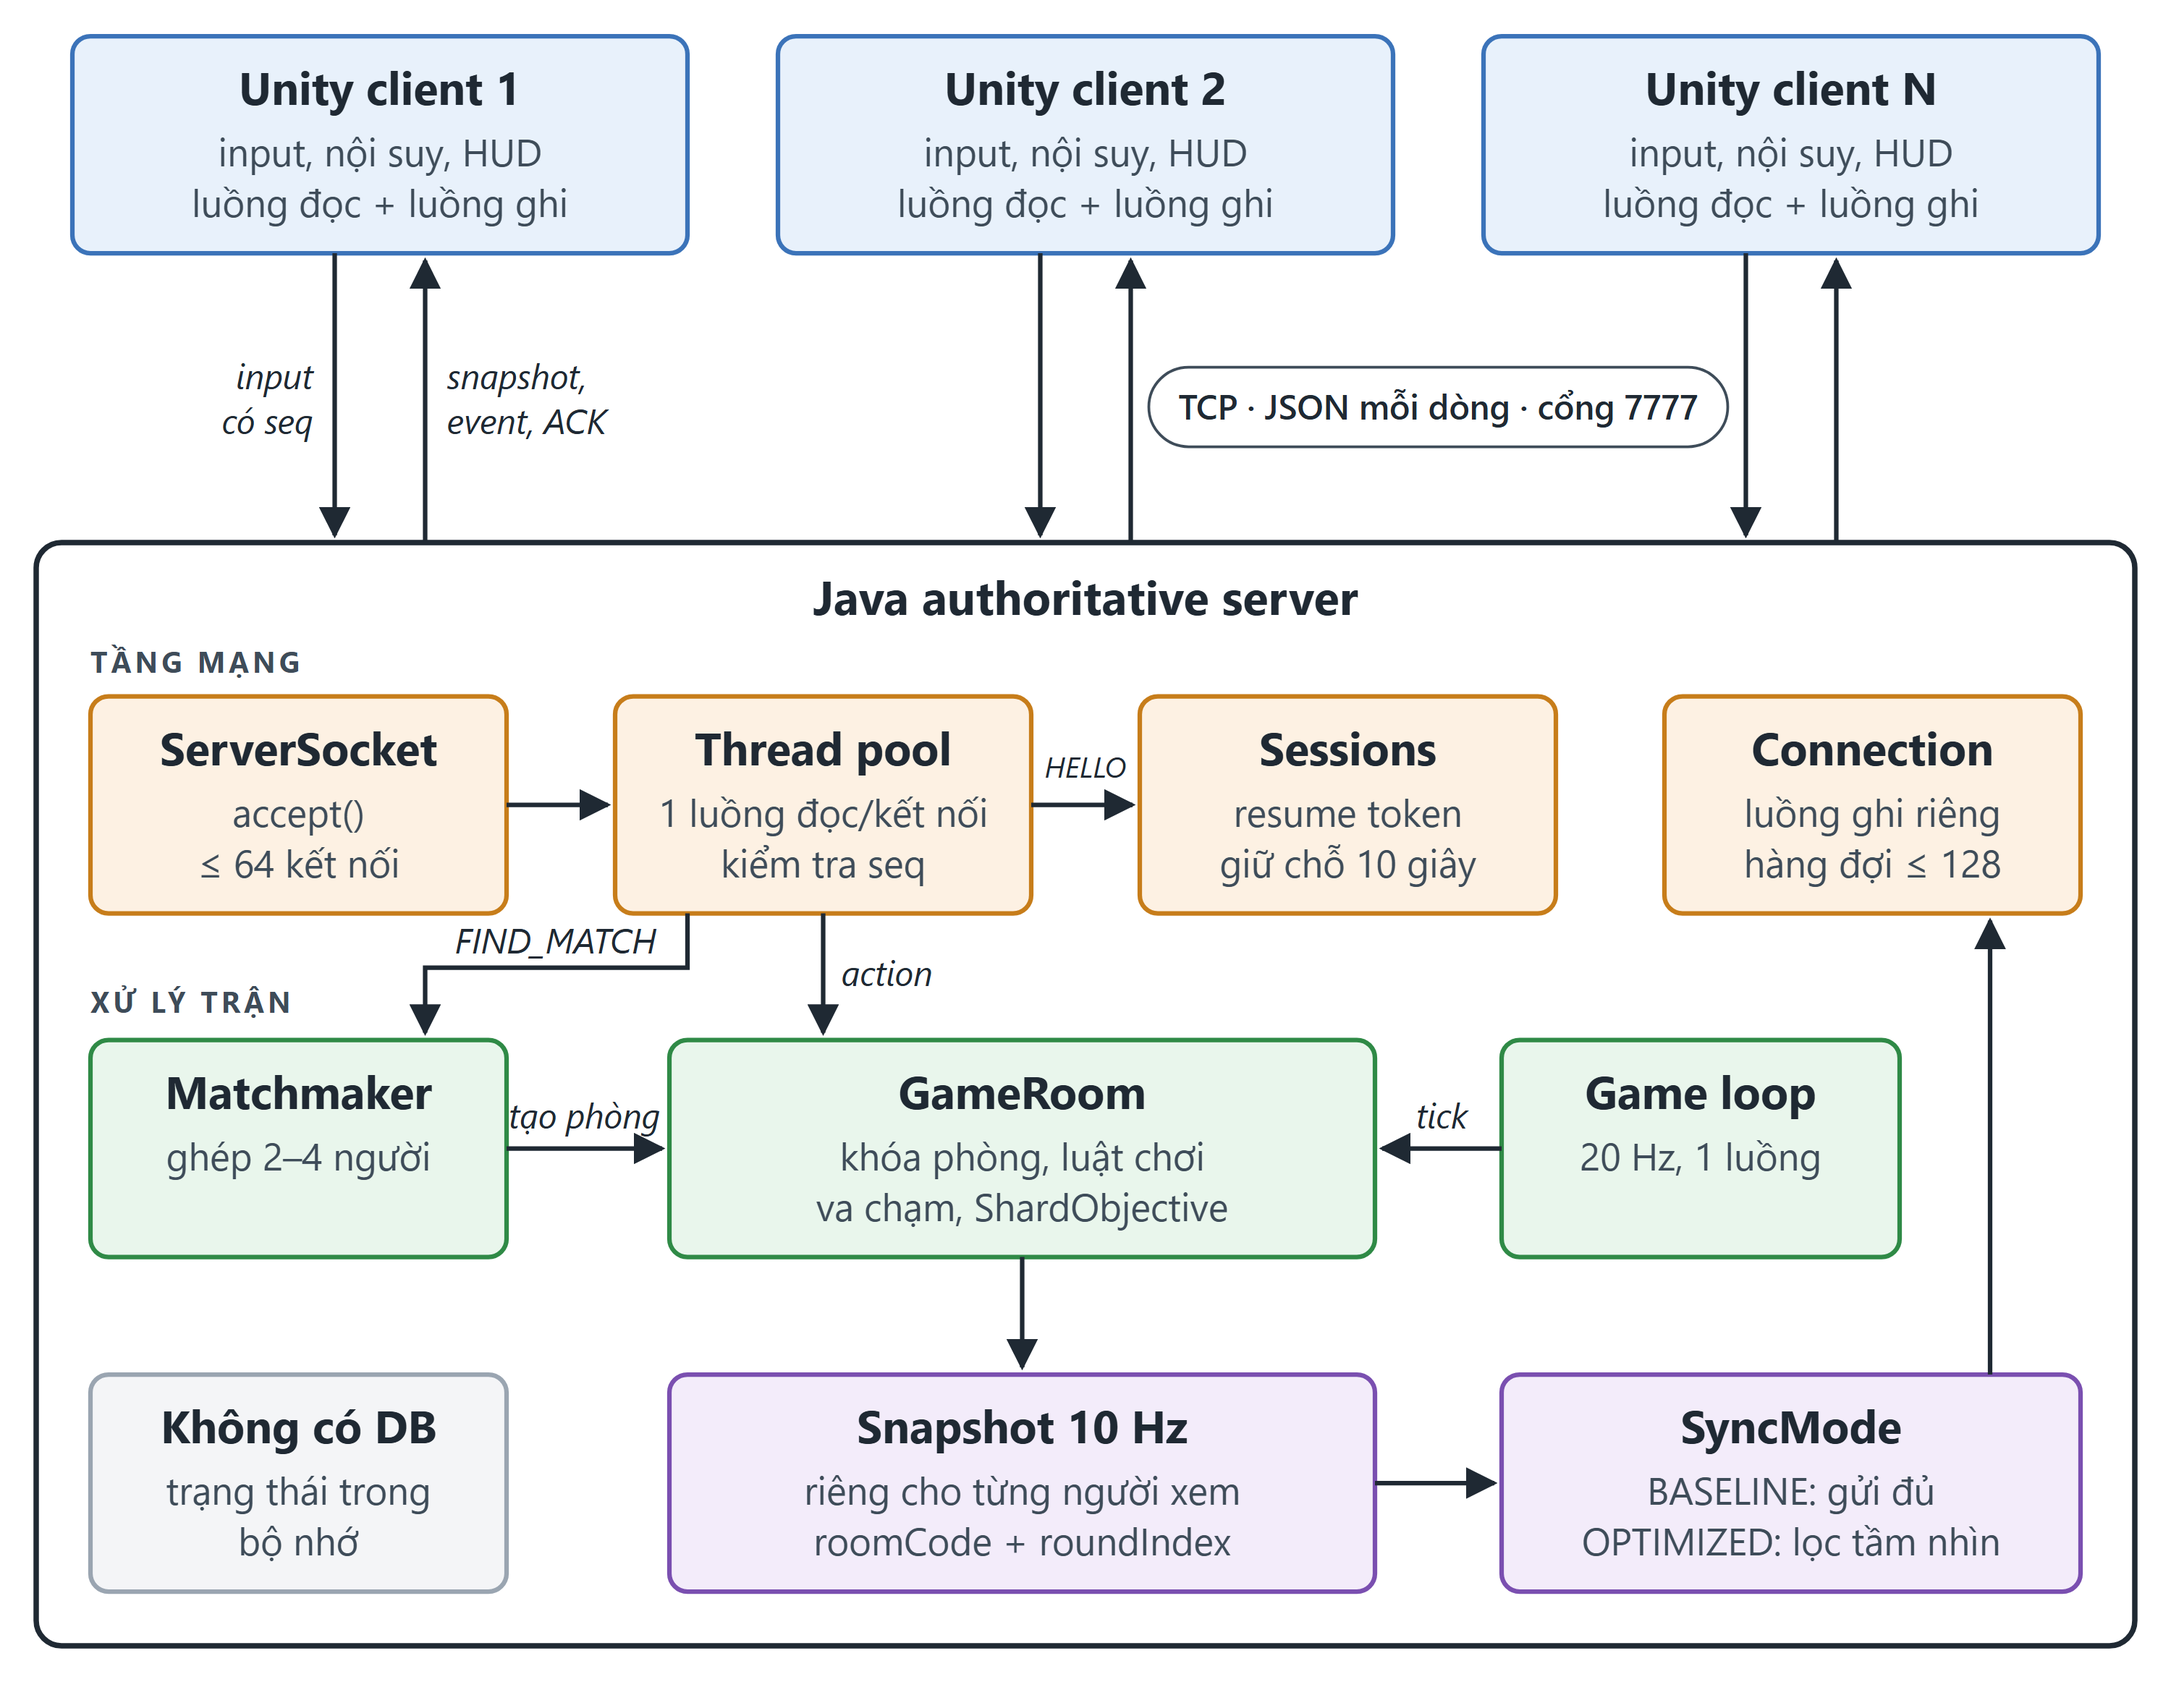
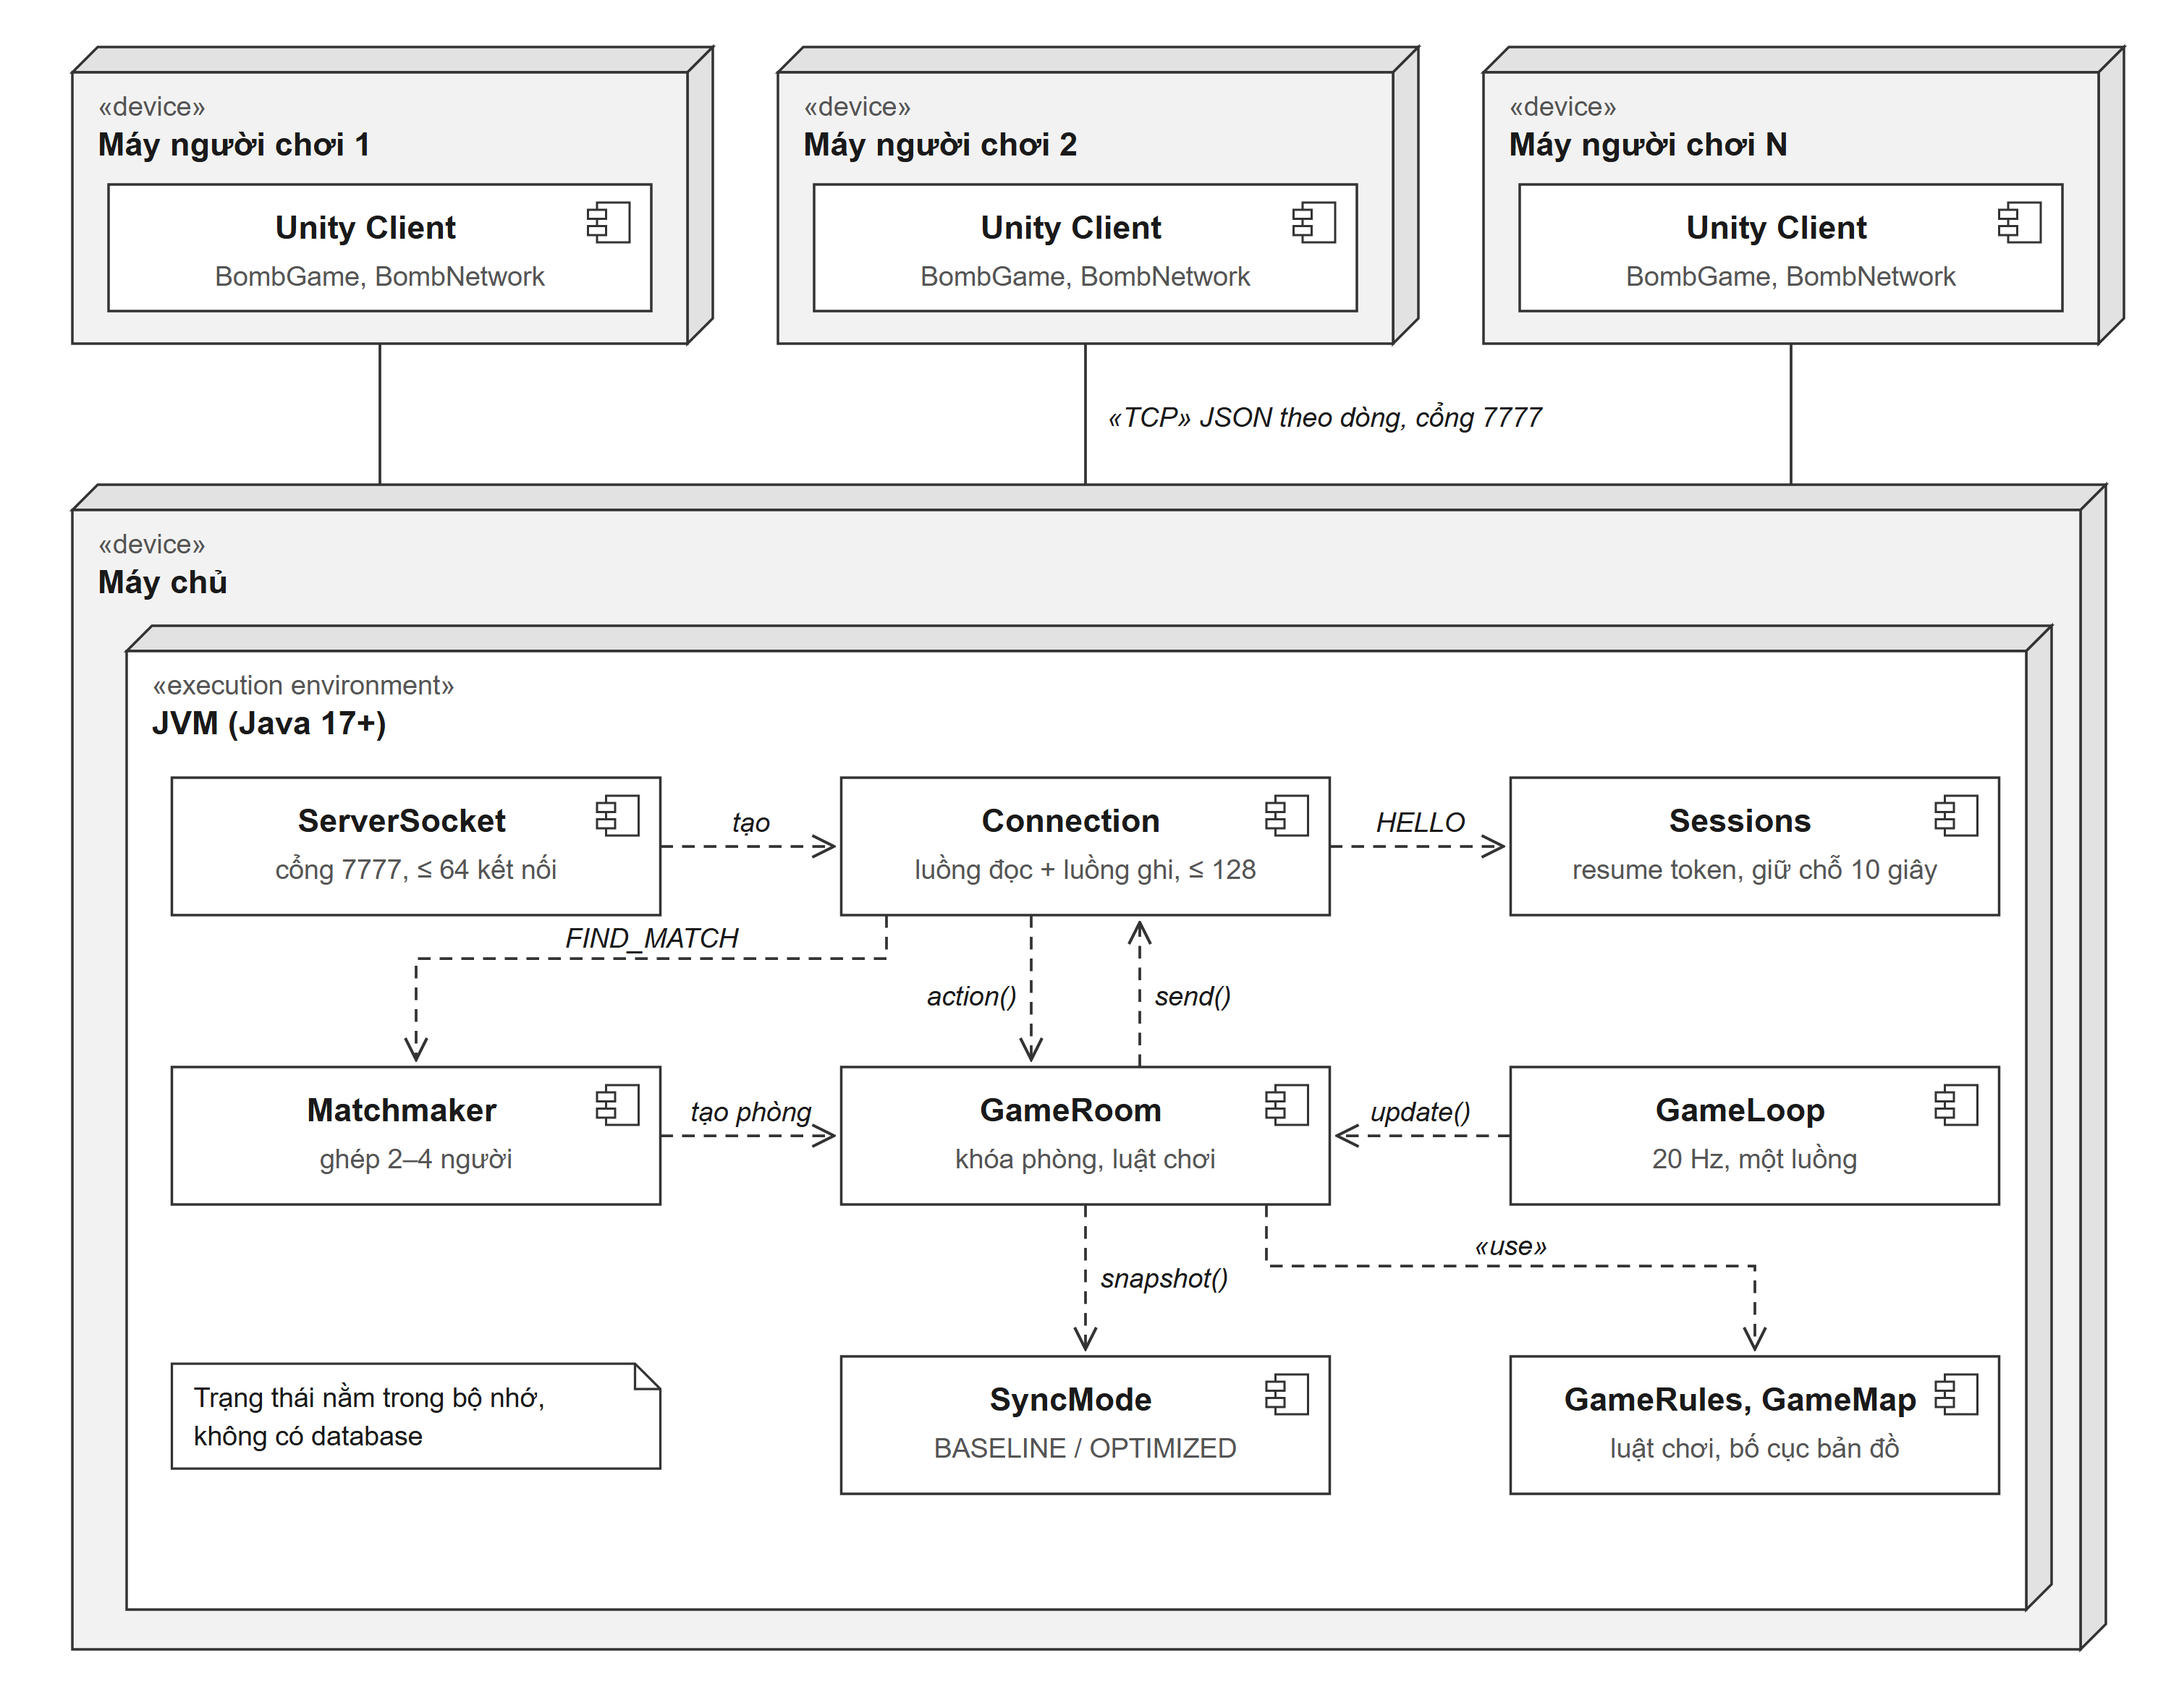
sửa báo cáo

Changed region(s): [[0.031, 0.0, 0.992, 0.991], [0.279, 0.8052, 0.341, 0.8671]]

diff --git a/docs/REPORT.md b/docs/REPORT.md
@@ -17,9 +17,9 @@
 
 Trong game hành động nhiều người, mọi máy phải thấy cùng một trận đấu dù độ trễ mỗi máy khác nhau và kết nối có thể đứt bất kỳ lúc nào. Nếu client tự tính vị trí, máu và sát thương thì trạng thái giữa các máy dễ lệch nhau và người chơi dễ gian lận. Nếu server gửi toàn bộ trạng thái cho mọi người ở mỗi lần cập nhật thì lượng dữ liệu tăng theo số người chơi, đồng thời client biết cả vị trí của đối thủ đang ẩn nấp.
 
-Nhóm xây dựng **Bomb Me Baby**, một game đấu trường PvP 2.5D gồm Java server và Unity client giao tiếp qua TCP. Server giữ quyền quyết định toàn bộ luật chơi (server-authoritative). Client chỉ gửi ý định điều khiển và hiển thị trạng thái nhận về. Giao thức là JSON theo dòng, có số thứ tự `seq` để chống request trùng, heartbeat, timeout và cơ chế reconnect bằng resume token. Server mô phỏng ở 20 Hz và gửi snapshot ở 10 Hz. Đóng góp chính là cơ chế **đồng bộ trạng thái chọn lọc**: hình học bản đồ chỉ gửi một lần, vật phẩm và đối thủ chỉ được gửi khi người xem được phép thấy.
+Nhóm xây dựng **Bomb Me Baby**, một game đấu trường PvP 2.5D gồm Java server và Unity client giao tiếp qua TCP. Server giữ quyền quyết định toàn bộ luật chơi (server-authoritative). Client chỉ gửi ý định điều khiển và hiển thị trạng thái nhận về. Giao thức là JSON theo dòng, có số thứ tự `seq` để chống request trùng, heartbeat, timeout và cơ chế reconnect bằng resume token. Server mô phỏng ở 20 Hz và gửi snapshot ở 10 Hz. Đóng góp chính là cơ chế **đồng bộ trạng thái chọn lọc**: hình học bản đồ chỉ gửi một lần, vật phẩm và đối thủ chỉ được gửi khi người xem được phép thấy. Ngoài ra, hệ thống phục hồi phiên chơi sau mất kết nối mà vẫn giữ đúng thứ tự vòng đời trận, và dùng thứ tự khóa cố định cùng hàng đợi ghi riêng cho từng client để một client chậm không làm chậm cả phòng.
 
-Trên loopback với 2, 4 và 8 client giả lập (18 lượt × 30 giây, không có lỗi kết nối), chế độ chọn lọc giảm **62,0–77,8%** số byte mỗi client nhận trong một giây so với baseline gửi đầy đủ. Bộ 115 test JUnit bao phủ kết nối, reconnect, ghép trận và luật chơi ở cả hai chế độ đồng bộ.
+Trên loopback với 2, 4 và 8 client giả lập (18 lượt × 30 giây, không có lỗi kết nối), chế độ chọn lọc giảm **62,0–77,8%** số byte mỗi client nhận trong một giây so với baseline gửi đầy đủ, trong khi RTT không tăng một cách đo được. Bộ 115 test JUnit bao phủ kết nối, reconnect, ghép trận và luật chơi ở cả hai chế độ đồng bộ.
 
 ## 2. Keywords
 
@@ -160,7 +160,7 @@ Với mỗi người xem `v` trong phòng, ở mỗi chu kỳ snapshot:
 
 ![Kiến trúc hệ thống Bomb Me Baby](images/architecture.png)
 
-*Hình 1. Kiến trúc hệ thống.* Mỗi Unity client giữ một kết nối TCP với server. Trên server, luồng đọc của từng kết nối chuyển request vào `GameRoom` dưới khóa phòng; game loop 20 Hz cập nhật trạng thái, tạo snapshot riêng cho từng người xem theo `SyncMode` rồi đưa vào hàng đợi ghi của từng `Connection`.
+*Hình 1. Kiến trúc hệ thống.* Sơ đồ triển khai (deployment diagram) UML. Mỗi Unity client giữ một kết nối TCP với server. Trên server, luồng đọc của từng kết nối chuyển request vào `GameRoom` dưới khóa phòng; game loop 20 Hz cập nhật trạng thái, tạo snapshot riêng cho từng người xem theo `SyncMode` rồi đưa vào hàng đợi ghi của từng `Connection`.
 
 ### 7.2. Thành phần
 
@@ -178,7 +178,7 @@ Với mỗi người xem `v` trong phòng, ở mỗi chu kỳ snapshot:
 
 ![Luồng một lần cập nhật từ client tới server và ngược lại](images/flow.png)
 
-*Hình 2. Luồng một lần cập nhật.* Bước 1–3 chạy ở client, bước 4–8 ở server, bước 9–11 quay lại client. Màu của mỗi ô cho biết bước đó chạy trên luồng nào.
+*Hình 2. Luồng một lần cập nhật.* Sơ đồ hoạt động (activity diagram) UML chia hai làn: Unity client và Java server. Bước 1–3 chạy ở client, bước 4–8 ở server, bước 9–11 quay lại client; số trong mỗi hành động ứng với số bước trong phần giải thích dưới đây.
 
 **Chiều lên, từ client tới server.** Ở mỗi khung hình, `BombGame.Update()` trên main thread của Unity đọc phím và dự đoán ngay vị trí nhân vật của chính mình, để người chơi không phải chờ server mới thấy nhân vật chạy (bước 1). Hướng di chuyển được gửi bằng `MOVE` mỗi 40 ms. `Send()` gán `seq` tăng dần rồi đưa JSON vào outbox (bước 2). Luồng ghi nền của `BombNetwork` lấy message khỏi outbox và ghi thành một dòng vào socket, nên main thread không bị chặn bởi I/O mạng (bước 3).
 
@@ -238,7 +238,7 @@ Trừ `HELLO` và `PING`, mọi request phải có `seq` lớn hơn mọi `seq` 
 
 ![Trình tự message trong một trận phòng riêng](images/sequence.png)
 
-*Hình 3. Trình tự message của một trận phòng riêng.* Chấm tròn trên đường của server nghĩa là message được gửi cho cả hai client. Riêng `STATE_UPDATE` có nội dung khác nhau cho từng người xem.
+*Hình 3. Trình tự message của một trận phòng riêng.* Sơ đồ tuần tự (sequence diagram) UML. Mũi tên nét liền là message gửi chủ động, mũi tên nét đứt là phản hồi cho một request. `STATE_UPDATE` gửi cho A và cho B có nội dung khác nhau.
 
 Trong trận, client gửi `MOVE` mỗi 40 ms và `PING` mỗi 2 giây. Server trả `ACK` cho mọi request có `seq` và gửi snapshot mỗi 100 ms, độc lập với nhịp gửi của client. Với ghép trận, client gửi `FIND_MATCH`. Khi đủ ít nhất hai người cùng chế độ, server ghép ở tick kế tiếp, gửi `MATCH_FOUND`, `ROOM_STATE` rồi `GAME_START` mà không cần `READY`.
 
